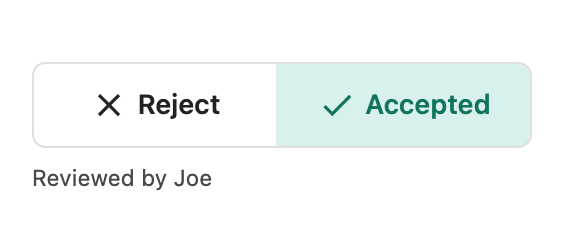
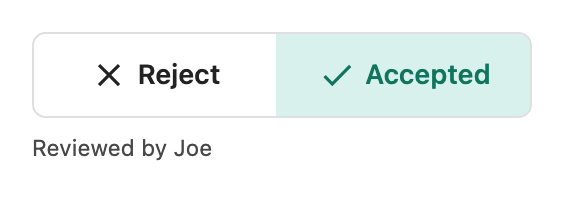
Crop the Source page tightly and update the legacy View source video
The legacy debugging page shares the Source page screenshot with the
current docs, but still showed the 2021 View source GIF above it. It now
uses the same video, with the current menu labels, and the unused GIF is
removed. The review panel images are cropped tighter too.

diff --git a/versioned_docs/version-legacy/debugging.md b/versioned_docs/version-legacy/debugging.md
@@ -9,14 +9,23 @@ the way you've intended.
 ## View source
 
 If the screenshots aren't looking right you can use the "View source" feature.
-You'll find it in the overflow menu to the right of a diff/screenshot:
+You'll find it in the "…" overflow menu to the right of a screenshot. For a
+diff, the menu has separate "View source for before image…" and "View source for
+after image…" options:
 
-![How to find the "View source" option](/img/happo-view-source.gif) _This is
-where you find the "View source" option for a Happo report._
+<video
+  src="/video/happo-view-source.webm"
+  aria-label='Opening the "…" menu on a snapshot and choosing "View source for after image…"'
+  autoPlay
+  loop
+  muted
+  playsInline
+  width="100%"
+/>
 
 You'll land on the Source page. It looks something like this:
-![The Source page](/img/happo-source-page.png) _The Source page for an "Alert"
-snapshot_
+![The Source page](/img/happo-source-page.png) _The Source page for a
+"PricingCard" snapshot_
 
 The Source page has some details about what was used to produce the screenshot,
 and there are a few buttons here that can be useful. Depending on the type of
